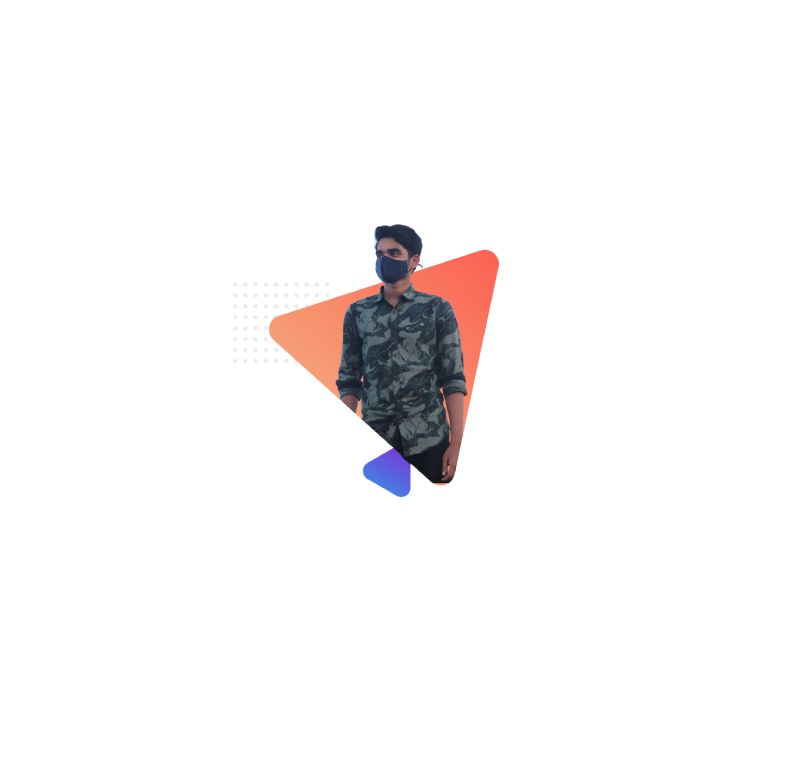
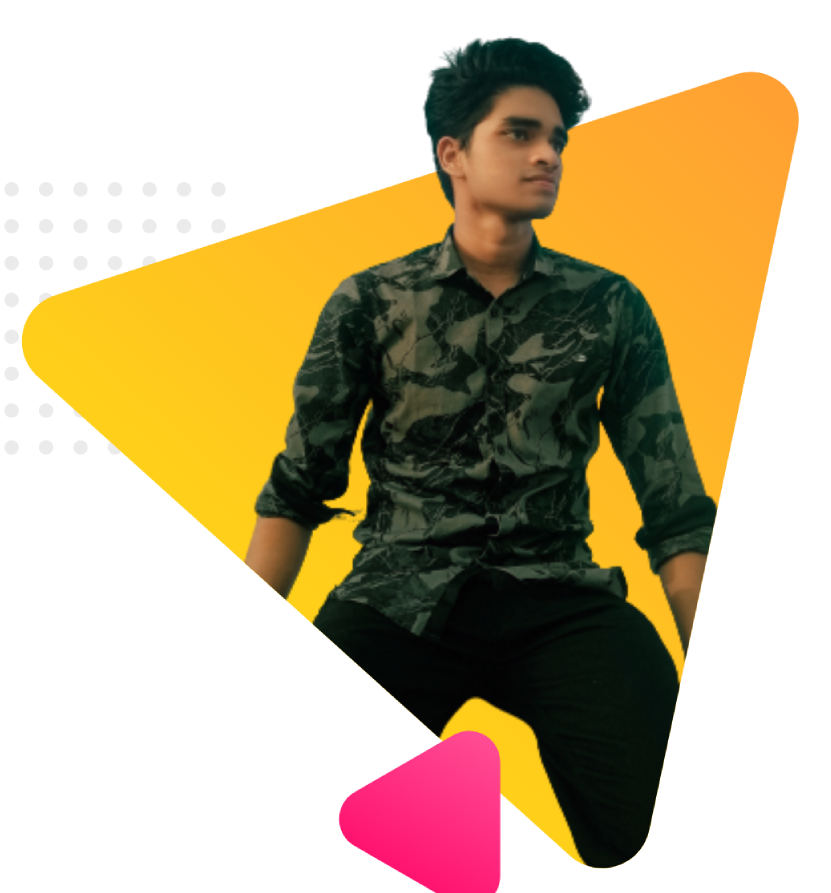
header done

diff --git a/index.html b/index.html
@@ -5,9 +5,29 @@
     <meta http-equiv="X-UA-Compatible" content="IE=edge">
     <meta name="viewport" content="width=device-width, initial-scale=1.0">
     <link rel="stylesheet" href="style.css">
-    <title>Document</title>
+    <link rel="preconnect" href="https://fonts.googleapis.com">
+<link rel="preconnect" href="https://fonts.gstatic.com" crossorigin>
+<link href="https://fonts.googleapis.com/css2?family=Arvo:wght@700&display=swap" rel="stylesheet">
+    <title>Personal Website</title>
 </head>
 <body>
+    <section class="header">
+        
+        <div class="header-left">
+            <h2>Hello I'm</h2>
+        <h1>Nabil Mahmud</h1>
+        <p>You might saw me jumping, climbing buildings and stopping trains. But nobody pays me dime for that work.</p>
+        <button class="btn">Hire Me</button>
+        </div>
+        <div class="header-right">
+        <img class="himage" src="images/nabil.png" alt="">
+  </div>
+        
+        
+               
+         
+
+    </section>
     
 </body>
 </html>

diff --git a/style.css b/style.css
@@ -1,0 +1,42 @@
+.header{
+    display: grid;
+    grid-template-columns: 50% 50%;
+    grid-gap: 70px;
+    margin-top: 160px;
+    margin-left: 10px;
+}
+h1{
+    color: magenta;
+    font-family: 'Arvo', serif;
+}
+h3{
+    font-size: 30px;
+    width: 5px;
+    font-family: 'Avro', serif;
+}
+.header-left{
+    background-color: gray;
+    height: 300px;
+    margin-left: 50px;
+    background-image: url(images/header-bg.png);
+}
+.himage{
+    height: 500px;
+}
+.btn{
+    background-image: linear-gradient(45deg, lightSalmon, tomato);
+    border: none;
+    color: white;
+    padding: 5px 10px 5px 10px;
+    border-radius: 3px;
+    transition: 1s;
+}
+.btn:hover{
+    box-shadow: 2px 2px 6px black;
+    transform: scale(1.2)
+}
+.header-right{
+    height: 100px;
+    background-image: url(images/header-bg.png);
+}
+    
